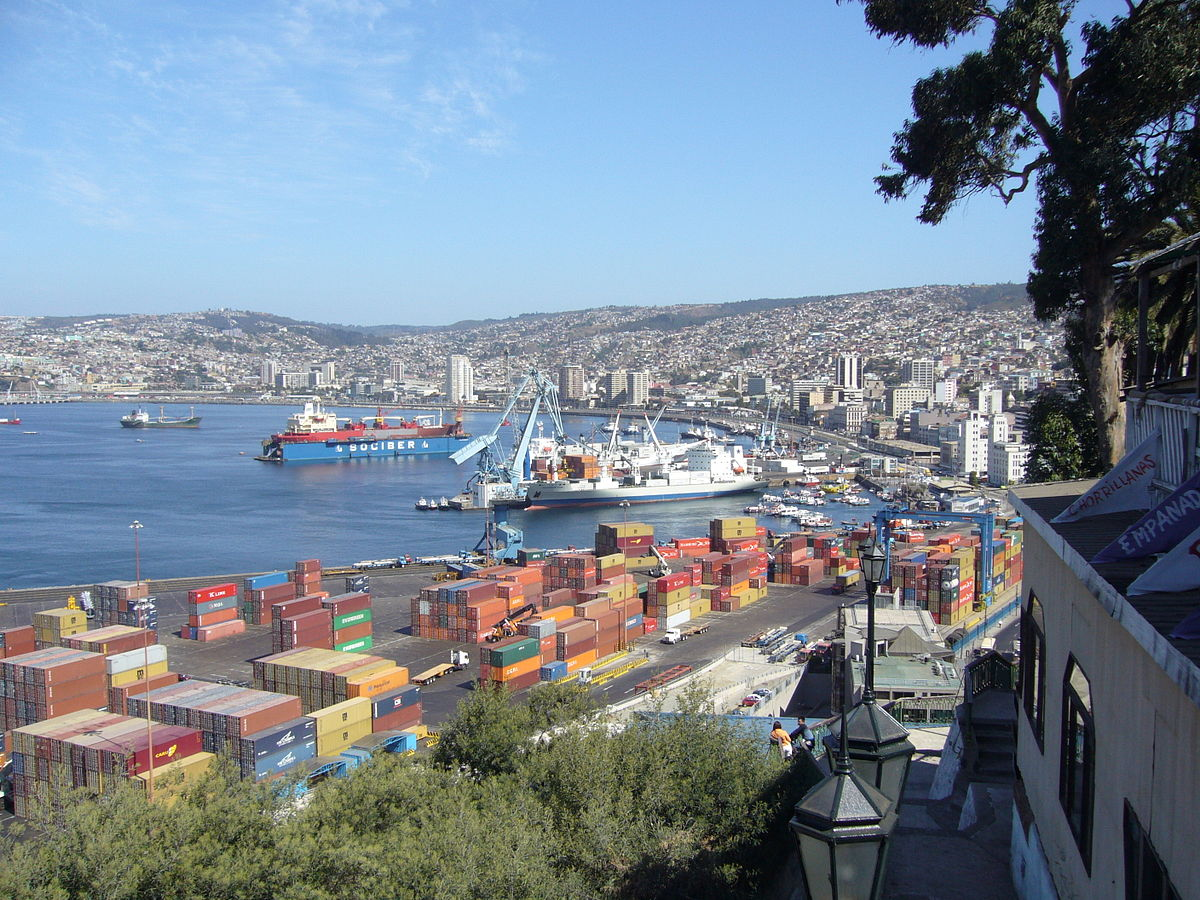
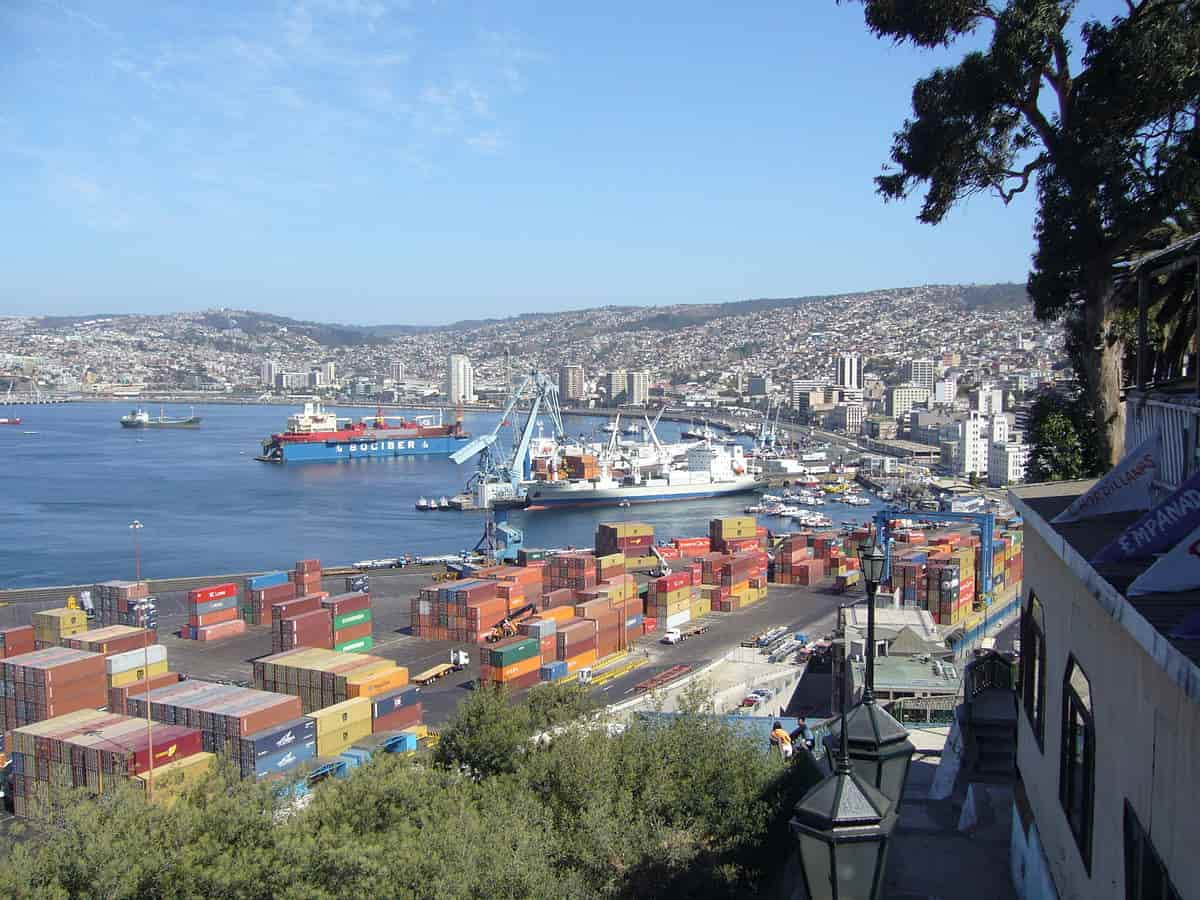
Заменены изображения на сжатые версии

diff --git a/index.html b/index.html
@@ -18,7 +18,7 @@
 
   <main>
     <h1>Alina Chekalova | WDD 130</h1>
-    <img src="images/profile.jpg" alt="Hello, my name is Alina Chekalova" width="150">
+    <img src="images/profile.jpg" alt="Hello, my name is Alina Chekalova">
     <p>My name is Alina Chekalova and I am from Chile. I enjoy watching films about yachting and space. I also like listening to audiobooks.</p>
   </main>
 
@@ -33,4 +33,3 @@
   </footer>
 </body>
 </html>
-
